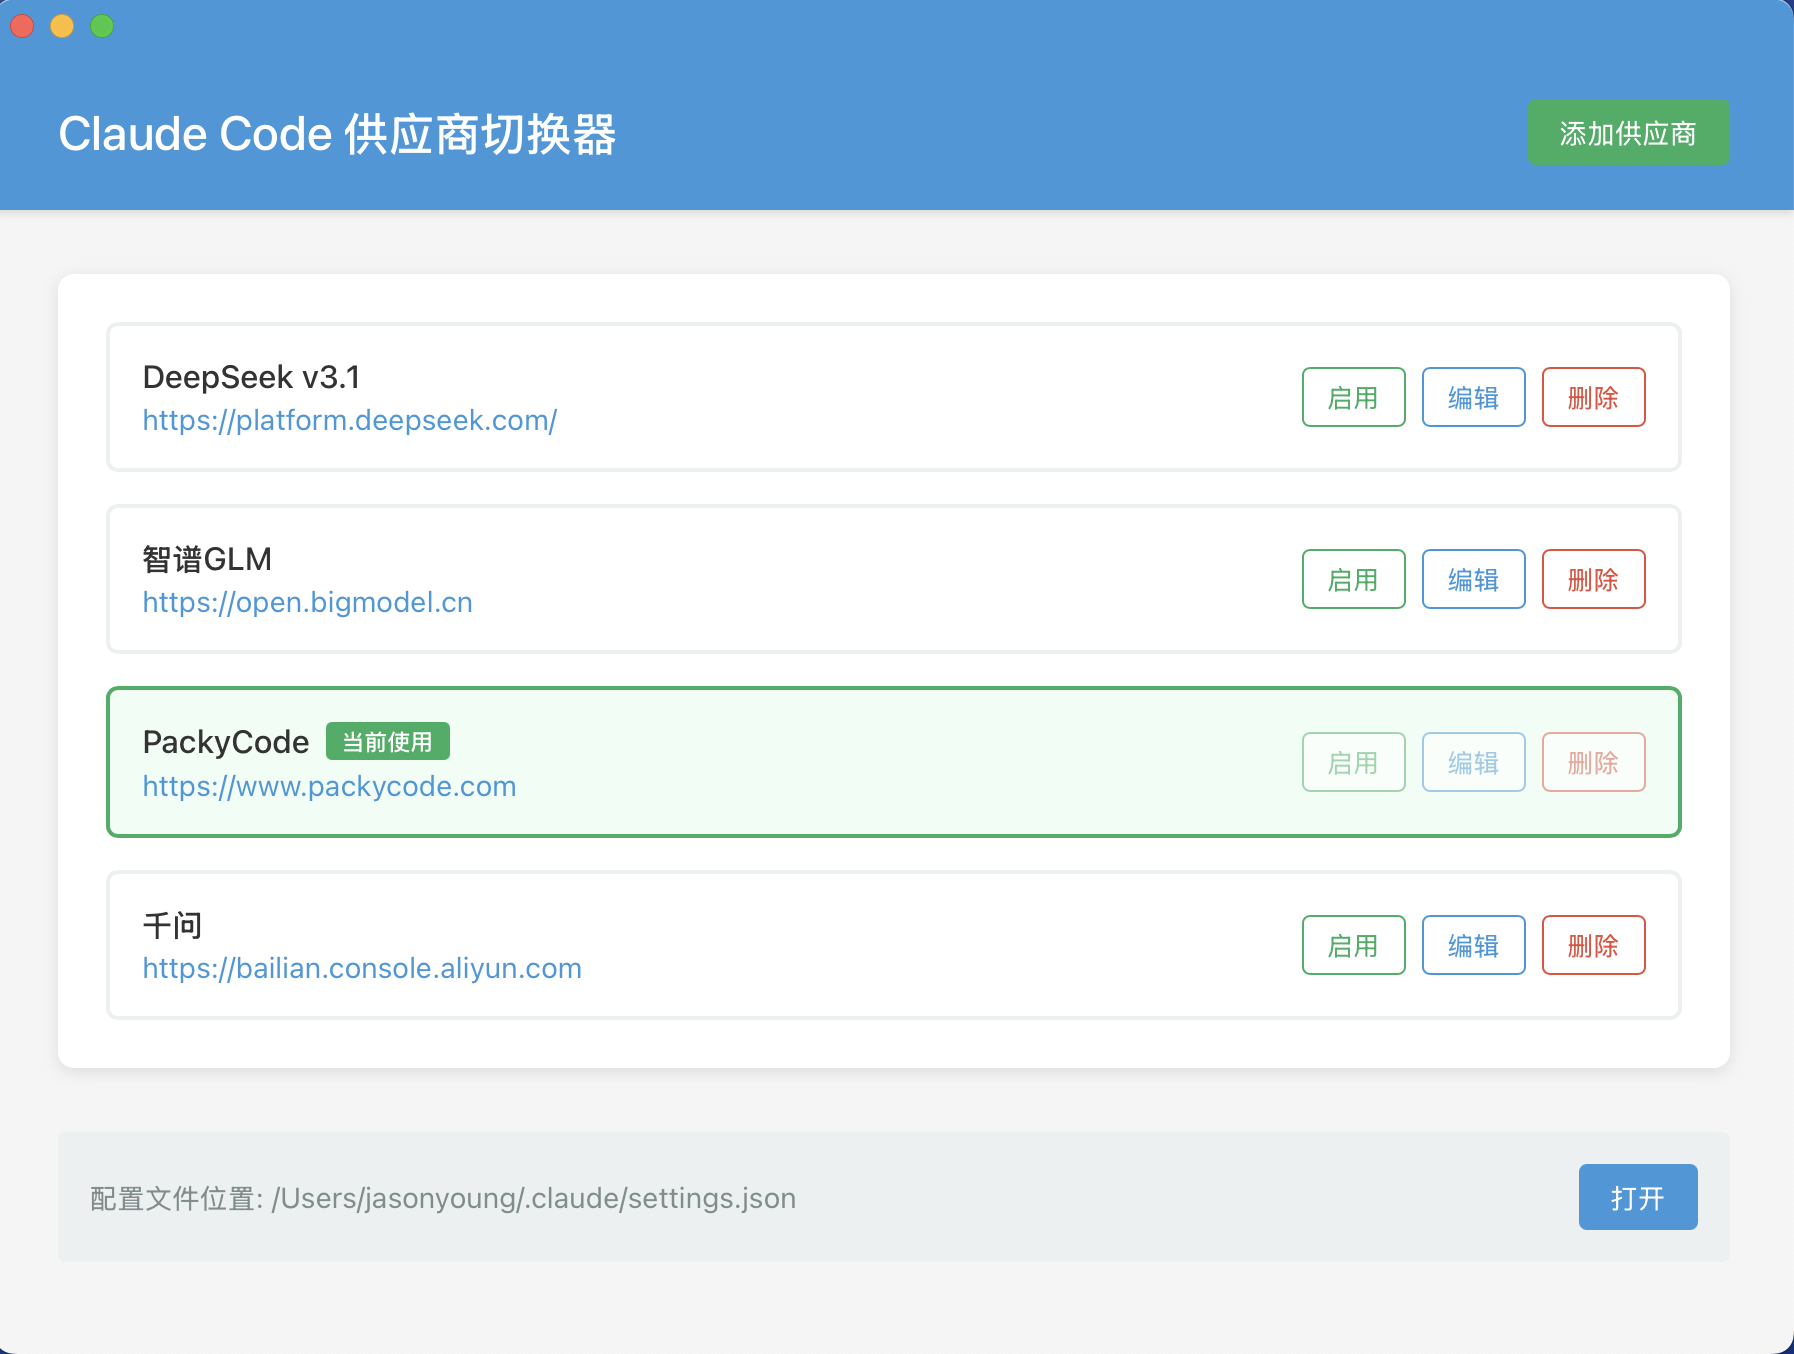
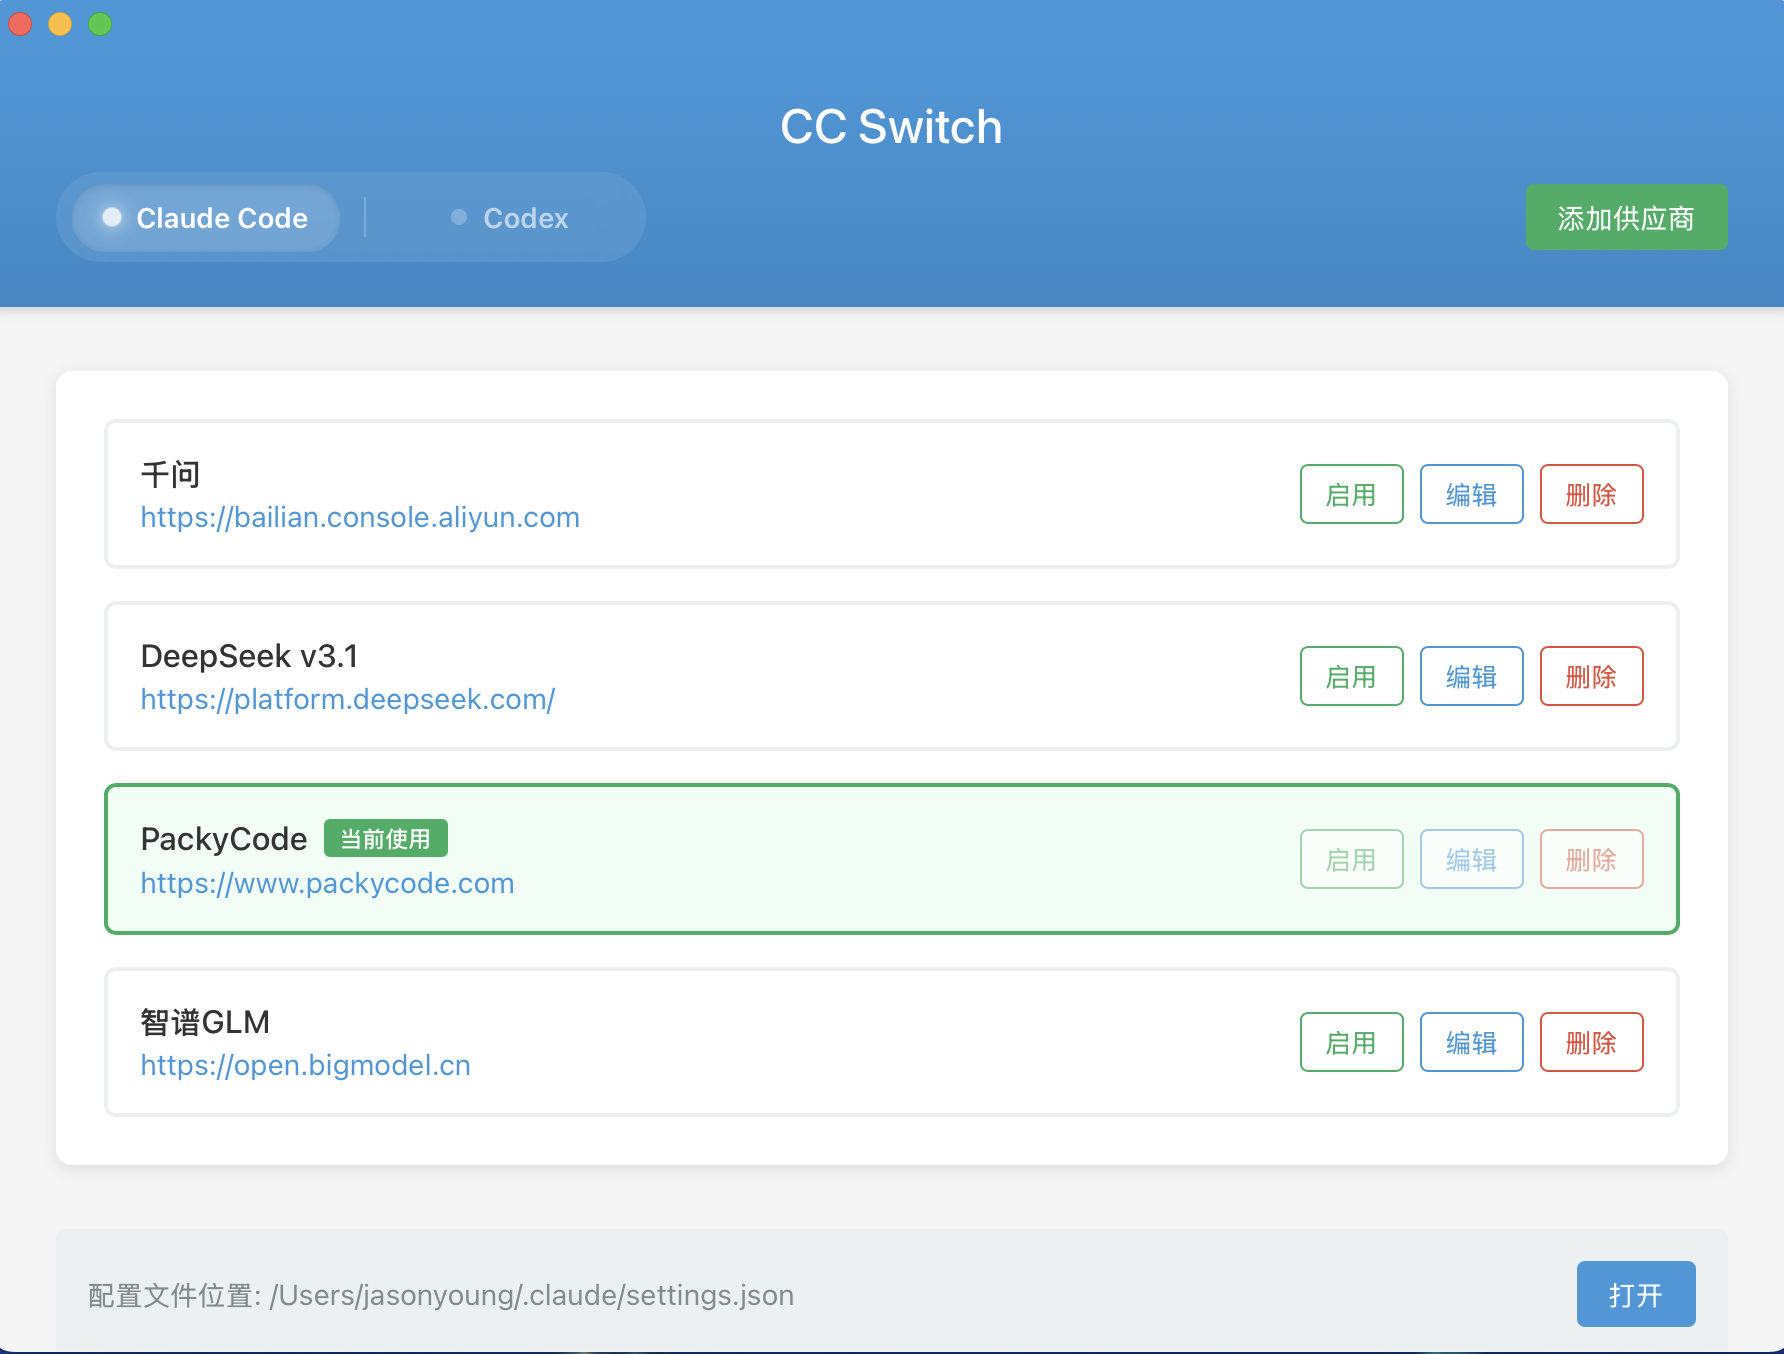
update readme

diff --git a/README.md b/README.md
@@ -1,4 +1,4 @@
-# Claude Code 供应商切换器
+# Claude Code & Codex 供应商切换器
 
 [![Version](https://img.shields.io/badge/version-3.0.0-blue.svg)](https://github.com/jasonyoung/cc-switch/releases)
 [![Platform](https://img.shields.io/badge/platform-Windows%20%7C%20macOS%20%7C%20Linux-lightgrey.svg)](https://github.com/jasonyoung/cc-switch/releases)
@@ -6,12 +6,15 @@
 
 一个用于管理和切换 Claude Code 与 Codex 不同供应商配置的桌面应用。
 
-> **v3.0.0 重大更新**：从 Electron 完全迁移到 Tauri 2.0，应用体积减少 85%（从 ~80MB 降至 ~12MB），启动速度提升 10 倍！
+> v3.1.0 ：新增 Codex 供应商管理与一键切换，支持导入当前 Codex 配置为默认供应商，并在内部配置从 v1 → v2 迁移前自动备份（详见下文““迁移与备份”）。
+
+> v3.0.0 重大更新：从 Electron 完全迁移到 Tauri 2.0，应用体积减少 85%（从 ~80MB 降至 ~12MB），启动速度提升 10 倍！
 
 ## 功能特性
 
 - **极速启动** - 基于 Tauri 2.0，原生性能，秒开应用
 - 一键切换不同供应商
+- 同时支持 Claude Code 与 Codex 的供应商切换与导入
 - Qwen coder、kimi k2、智谱 GLM、DeepSeek v3.1、packycode 等预设供应商只需要填写 key 即可一键配置
 - 支持添加自定义供应商
 - 随时切换官方登录
@@ -67,6 +70,22 @@
 - API Key 字段：`auth.json` 中使用 `OPENAI_API_KEY`
 - 切换策略：将选中供应商的副本覆盖到主配置（`auth.json`、`config.toml`）。若供应商没有 `config-*.toml`，会创建空的 `config.toml`。
 - 导入默认：若 `~/.codex/auth.json` 存在，会将当前主配置导入为 `default` 供应商；`config.toml` 不存在时按空处理。
+- 官方登录：可切换到预设“Codex 官方登录”，重启终端后可选择使用 ChatGPT 账号完成登录。
+
+### Claude Code 说明
+
+- 配置目录：`~/.claude/`
+  - 主配置文件：`settings.json`（推荐）或 `claude.json`（旧版兼容，若存在则继续使用）
+  - 供应商副本：`settings-<name>.json`
+- API Key 字段：`env.ANTHROPIC_AUTH_TOKEN`
+- 切换策略：将选中供应商的副本覆盖到主配置（`settings.json`/`claude.json`）。如当前有配置且存在“当前供应商”，会先将主配置备份回该供应商的副本文件。
+- 导入默认：若 `~/.claude/settings.json` 或 `~/.claude/claude.json` 存在，会将当前主配置导入为 `default` 供应商副本。
+- 官方登录：可切换到预设“Claude 官方登录”，重启终端后可使用 `/login` 完成登录。
+
+### 迁移与备份
+
+- cc-switch 自身配置从 v1 → v2 迁移时，将在 `~/.cc-switch/` 目录自动创建时间戳备份：`config.v1.backup.<timestamp>.json`。
+- 实际生效的应用配置文件（如 `~/.claude/settings.json`、`~/.codex/auth.json`/`config.toml`）不会被修改，切换仅在用户点击“切换”时按副本覆盖到主配置。
 
 ## 开发
 
